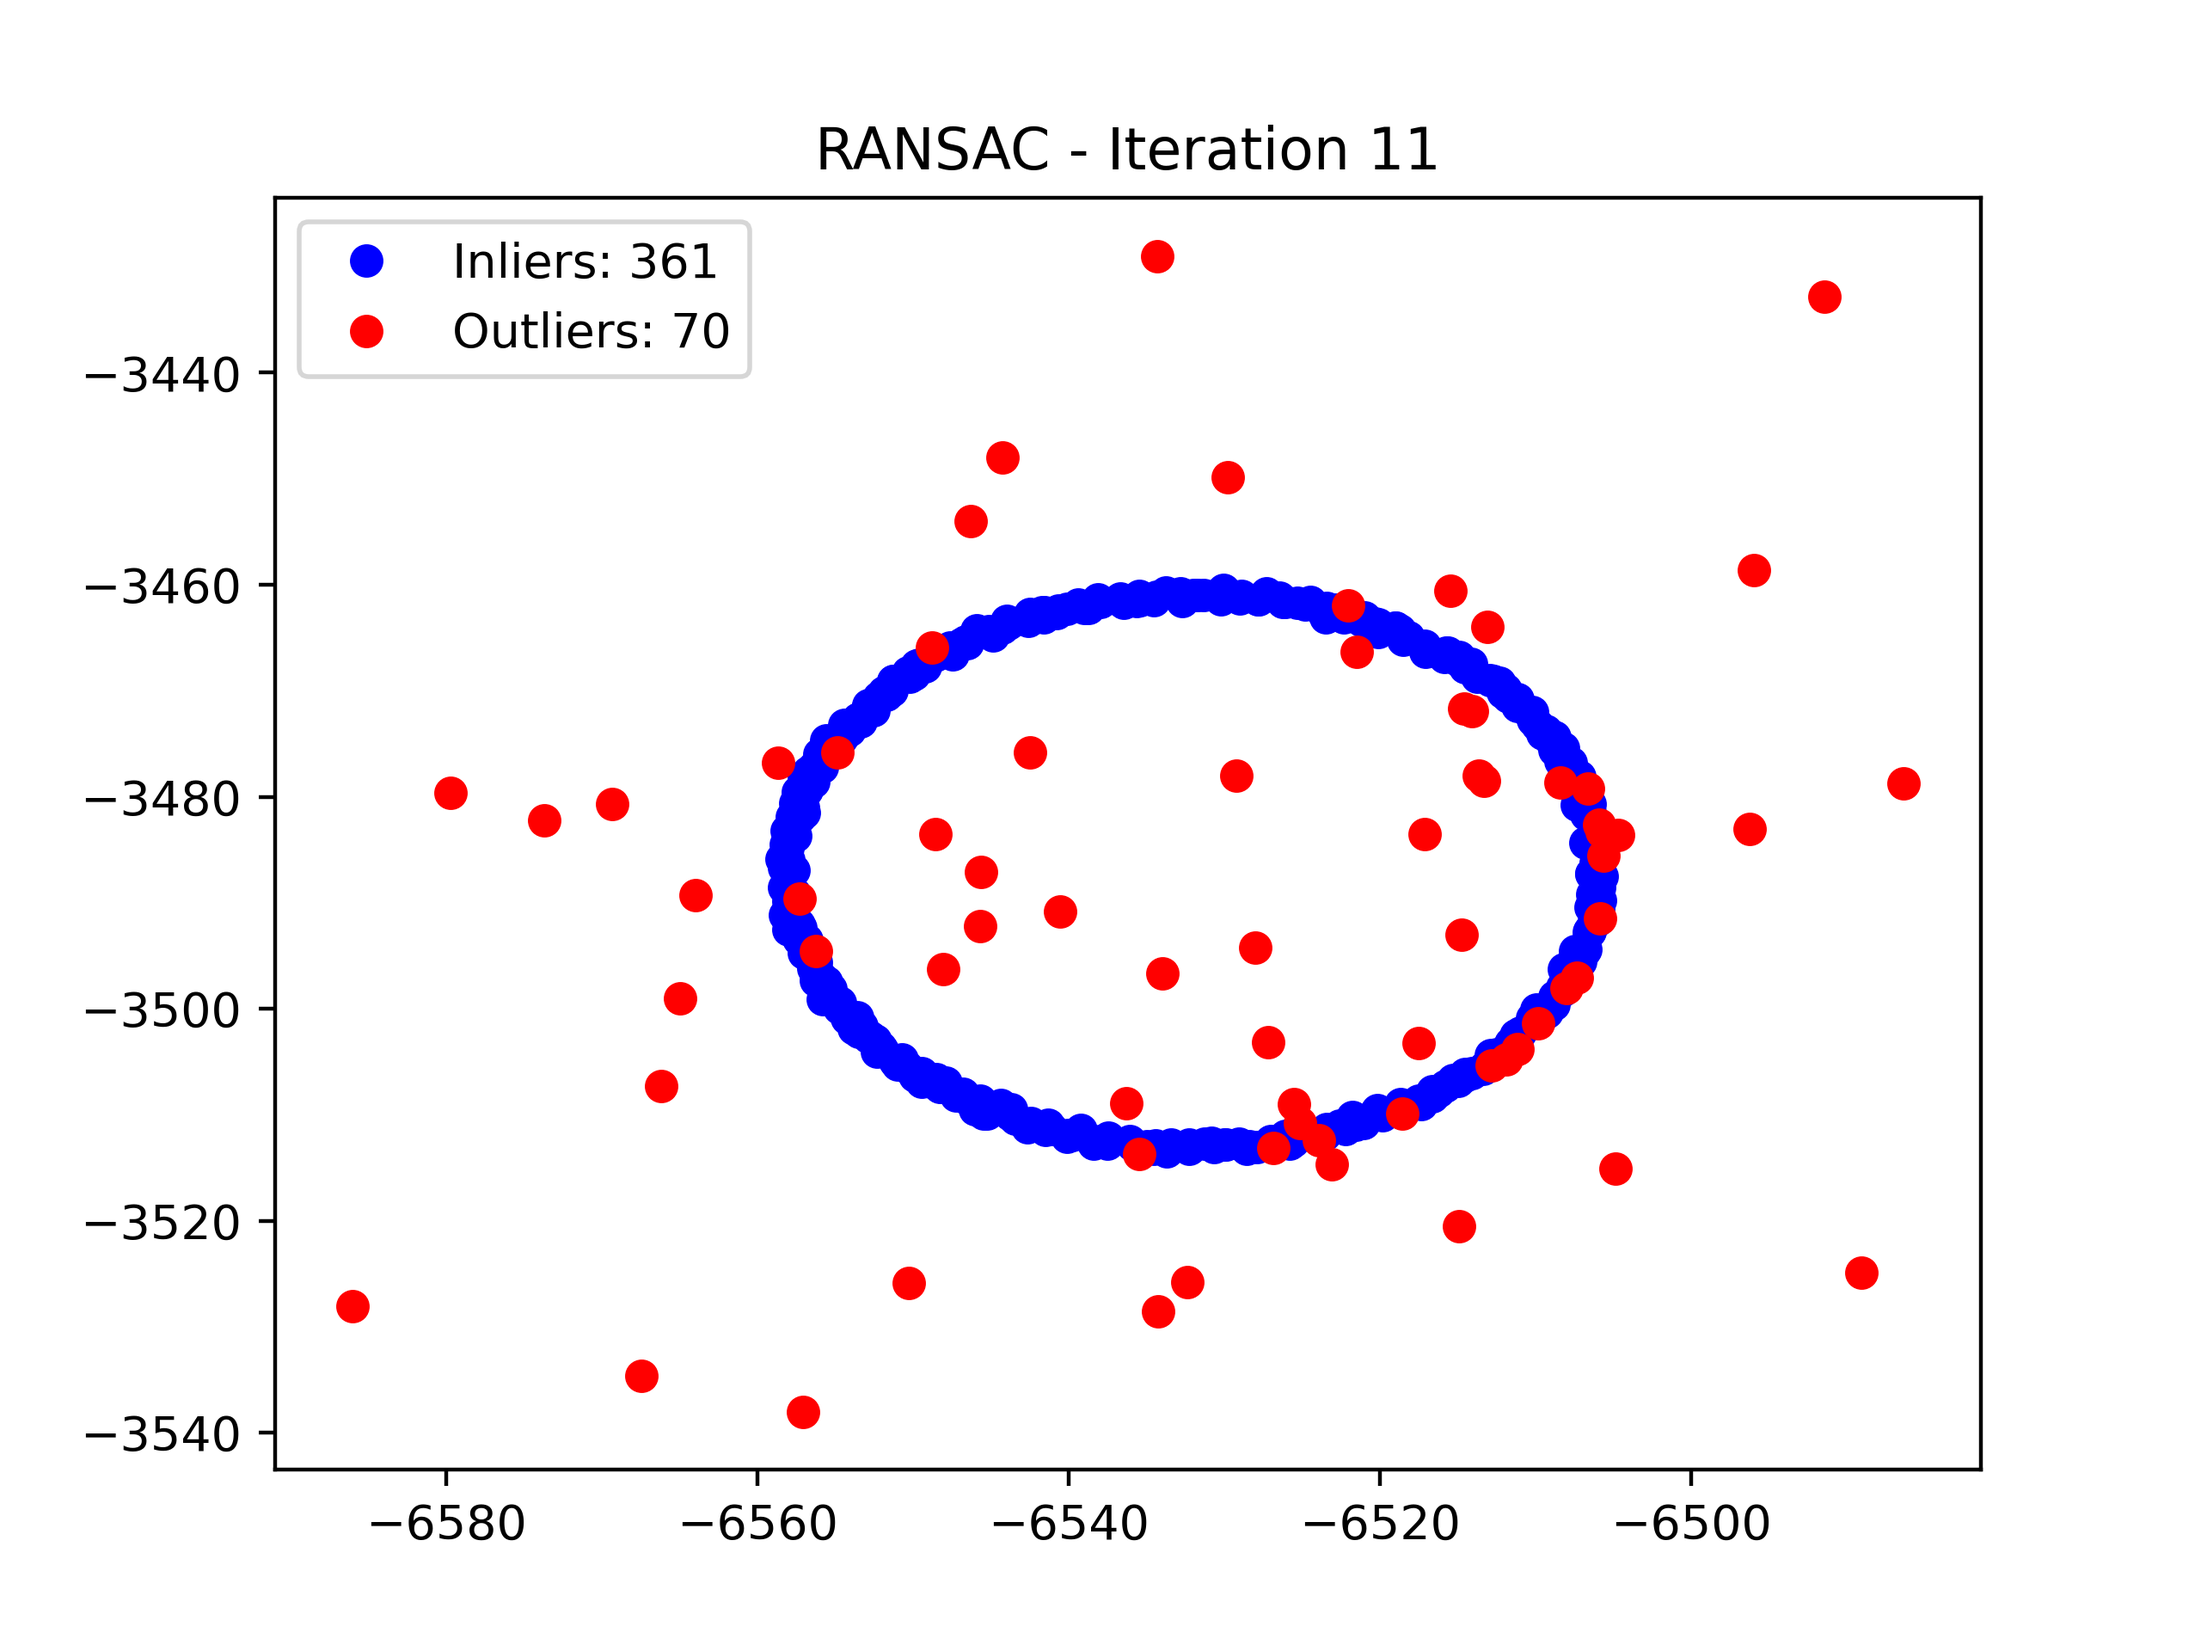
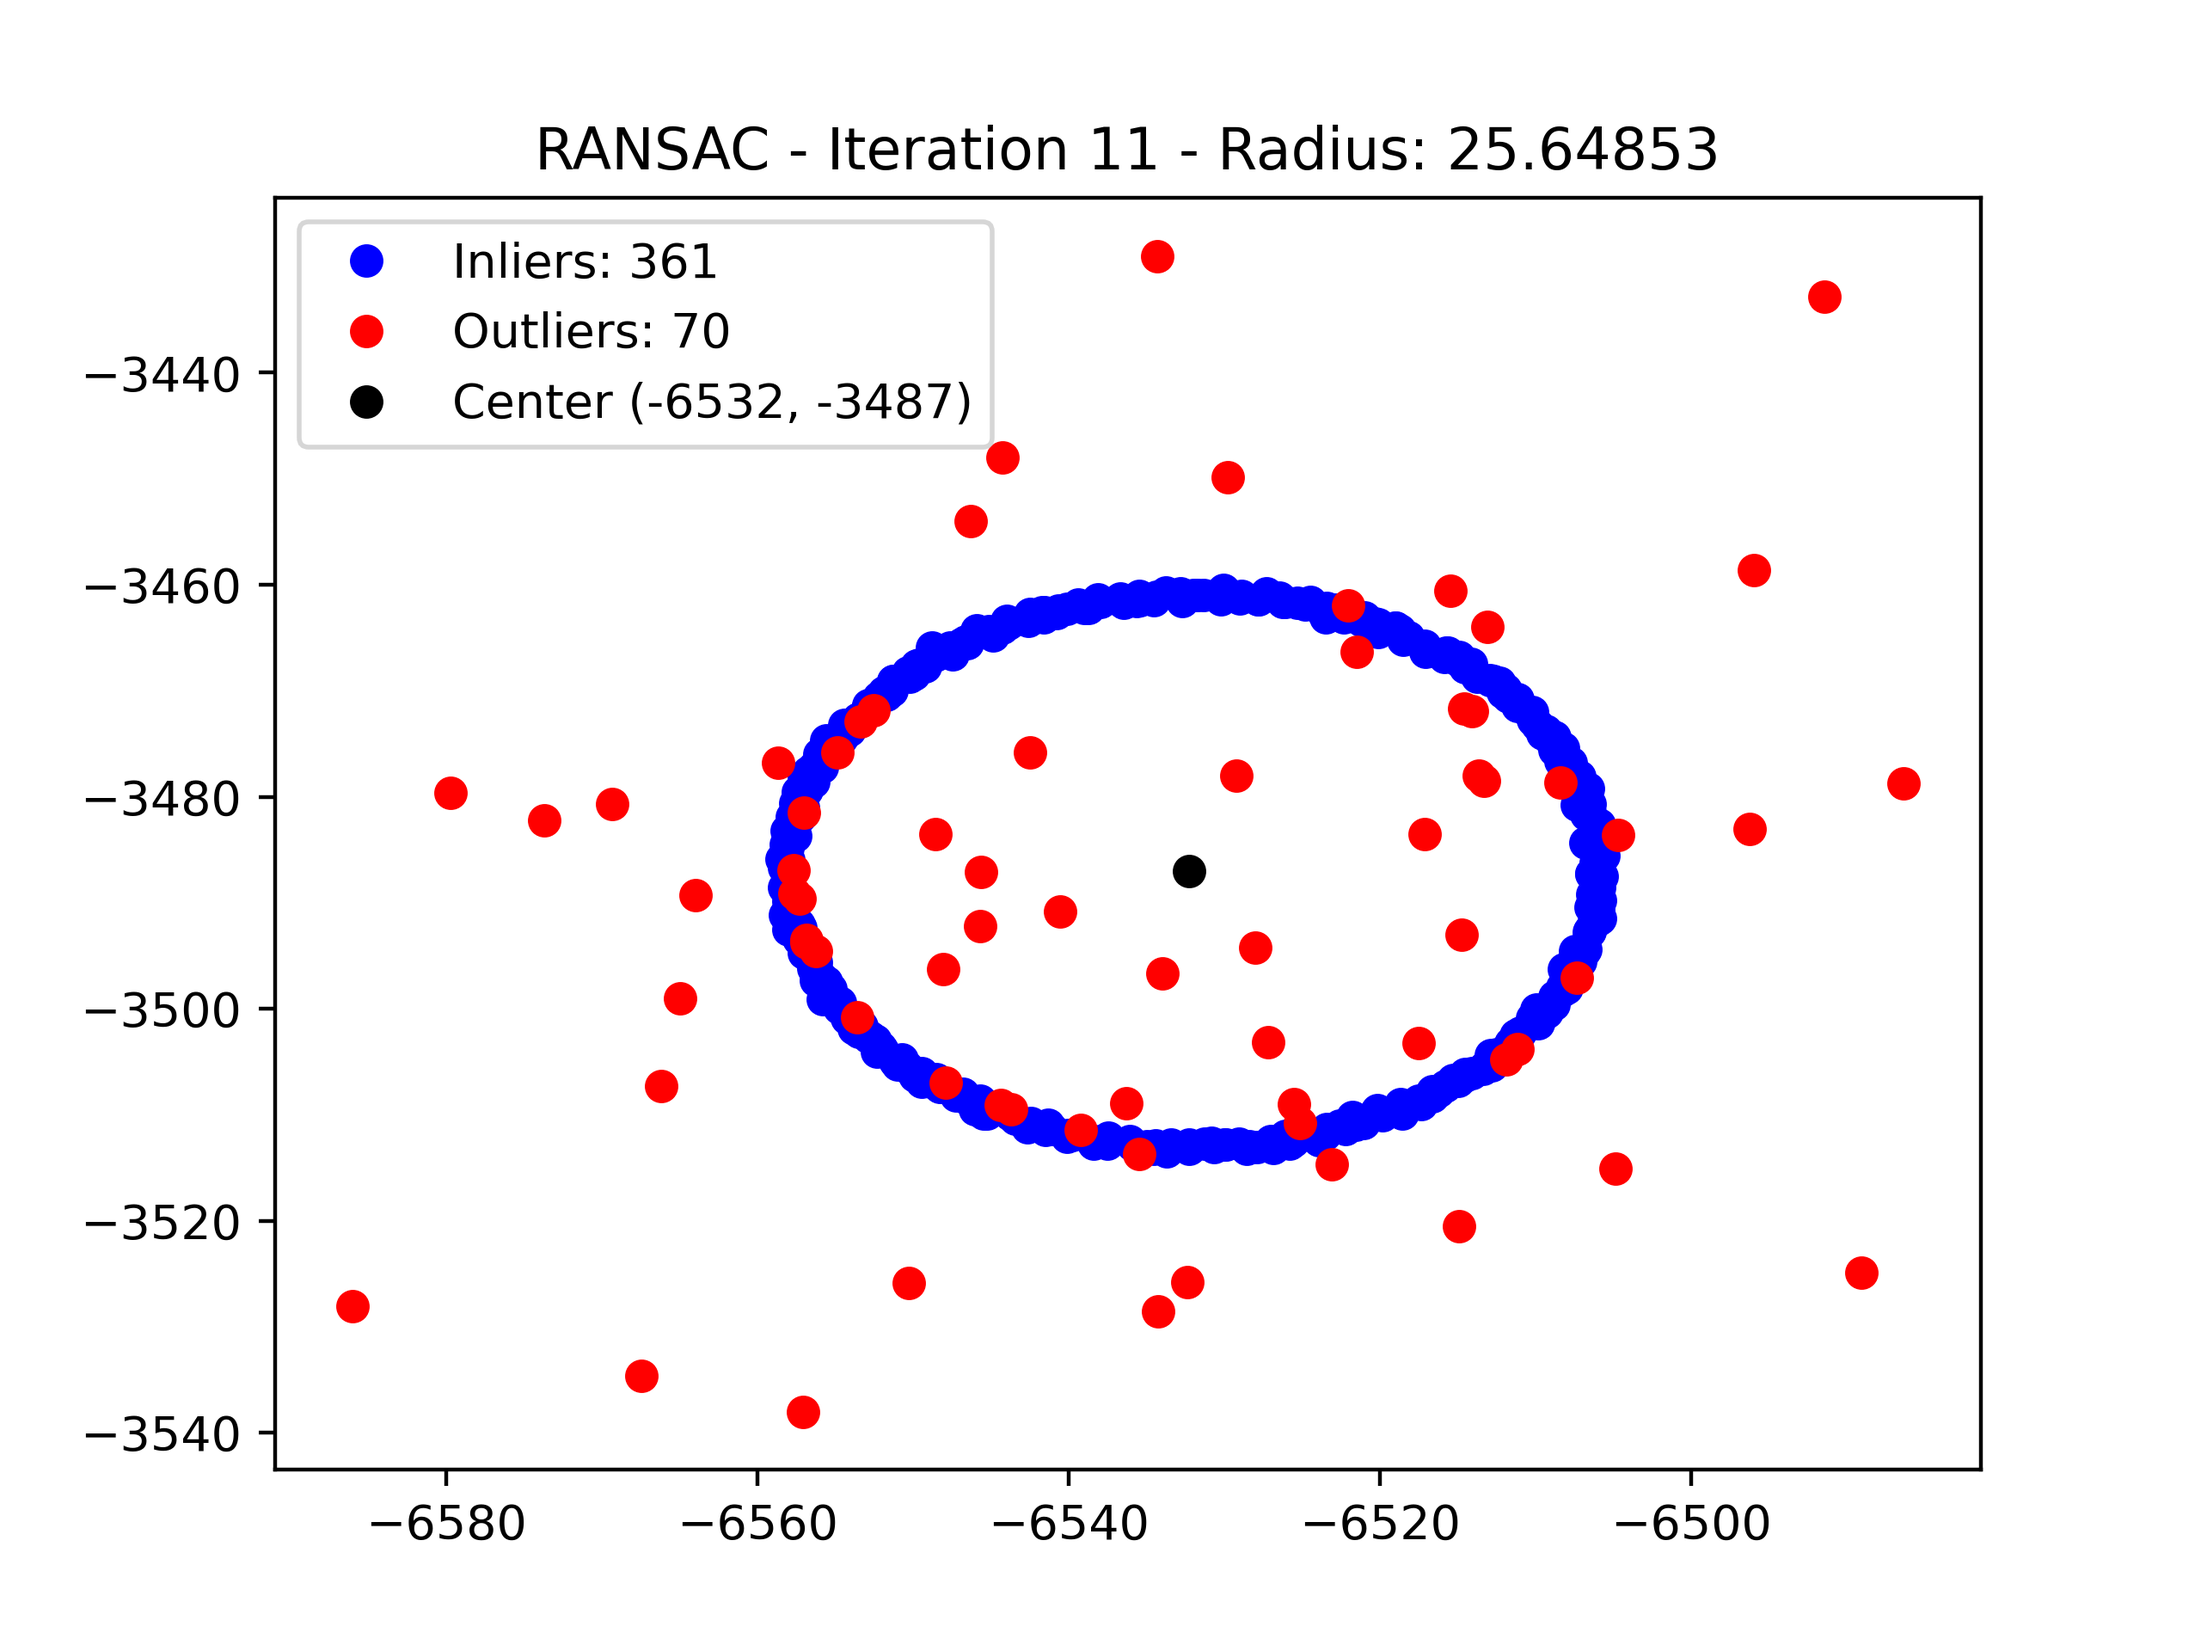
feat: Added center and radius in image

diff --git a/src/ransac.py b/src/ransac.py
@@ -13,6 +13,8 @@ class RANSAC:
     __points: list[Node]
     __inliers: list[Node]
     __outliers: list[Node]
+    __radius: float
+    __center: tuple[float, float]
 
     def __init__(self, filename: str) -> None:
         filepath = os.path.join(Config.DATASET_DIR.value, filename)
@@ -21,6 +23,8 @@ class RANSAC:
         self.points = []
         self.inliers = []
         self.outliers = []
+        self.radius = 0
+        self.center = 0, 0
 
         with open(filepath, "r") as file:
             lines = file.readlines()
@@ -61,7 +65,7 @@ class RANSAC:
                 outliers = []
 
                 p1, p2, p3 = self.__select_random_points()
-                R, dist_from_center = RANSAC.dist_from_center(p1=p1, p2=p2, p3=p3)
+                R, center, dist_from_center = RANSAC.dist_from_center(p1=p1, p2=p2, p3=p3)
                 for point in self.points:
                     d = dist_from_center(point.x, point.y)
                     if R - Config.R_THRESHOLD.value <= d <= R + Config.R_THRESHOLD.value:
@@ -72,6 +76,8 @@ class RANSAC:
                 if len(inliers) > len(self.inliers):
                     self.inliers = inliers
                     self.outliers = outliers
+                    self.radius = R
+                    self.center = center
 
             print(f"Found {len(self.inliers)} inliers and {len(self.outliers)} outliers.")
             x_inliers = np.array([point.x for point in self.inliers])
@@ -84,7 +90,12 @@ class RANSAC:
 
             plt.plot(x_inliers, y_inliers, "o", color="blue", label=f"Inliers: {len(self.inliers)}")
             plt.plot(x_outliers, y_outliers, "o", color="red", label=f"Outliers: {len(self.outliers)}")
-            plt.title(f"RANSAC - Iteration {i}")
+            plt.plot(
+                self.center[0], self.center[1],
+                "o", color="black",
+                label=f"Center ({round(self.center[0])}, {round(self.center[1])})"
+            )
+            plt.title(f"RANSAC - Iteration {i} - Radius: {self.radius:.4f}")
             plt.legend()
             plt.savefig(title, dpi=400)
 
@@ -97,7 +108,11 @@ class RANSAC:
         return tuple(np.random.choice(self.points, 3, replace=False))
 
     @staticmethod
-    def dist_from_center(p1: Node, p2: Node, p3: Node) -> tuple[float, Callable[[float, float], float]]:
+    def dist_from_center(p1: Node, p2: Node, p3: Node) -> tuple[
+        float,
+        tuple[float, float],
+        Callable[[float, float], float]
+    ]:
         a = np.array(
             [
                 [p1.x - p2.x, p1.y - p2.y],
@@ -115,4 +130,4 @@ class RANSAC:
         center = np.linalg.solve(a, b)
         radius = np.sqrt((p1.x - center[0]) ** 2 + (p1.y - center[1]) ** 2)
 
-        return radius, lambda x, y: (x - center[0]) ** 2 + (y - center[1]) ** 2 - radius ** 2
+        return radius, center, lambda x, y: (x - center[0]) ** 2 + (y - center[1]) ** 2 - radius ** 2
